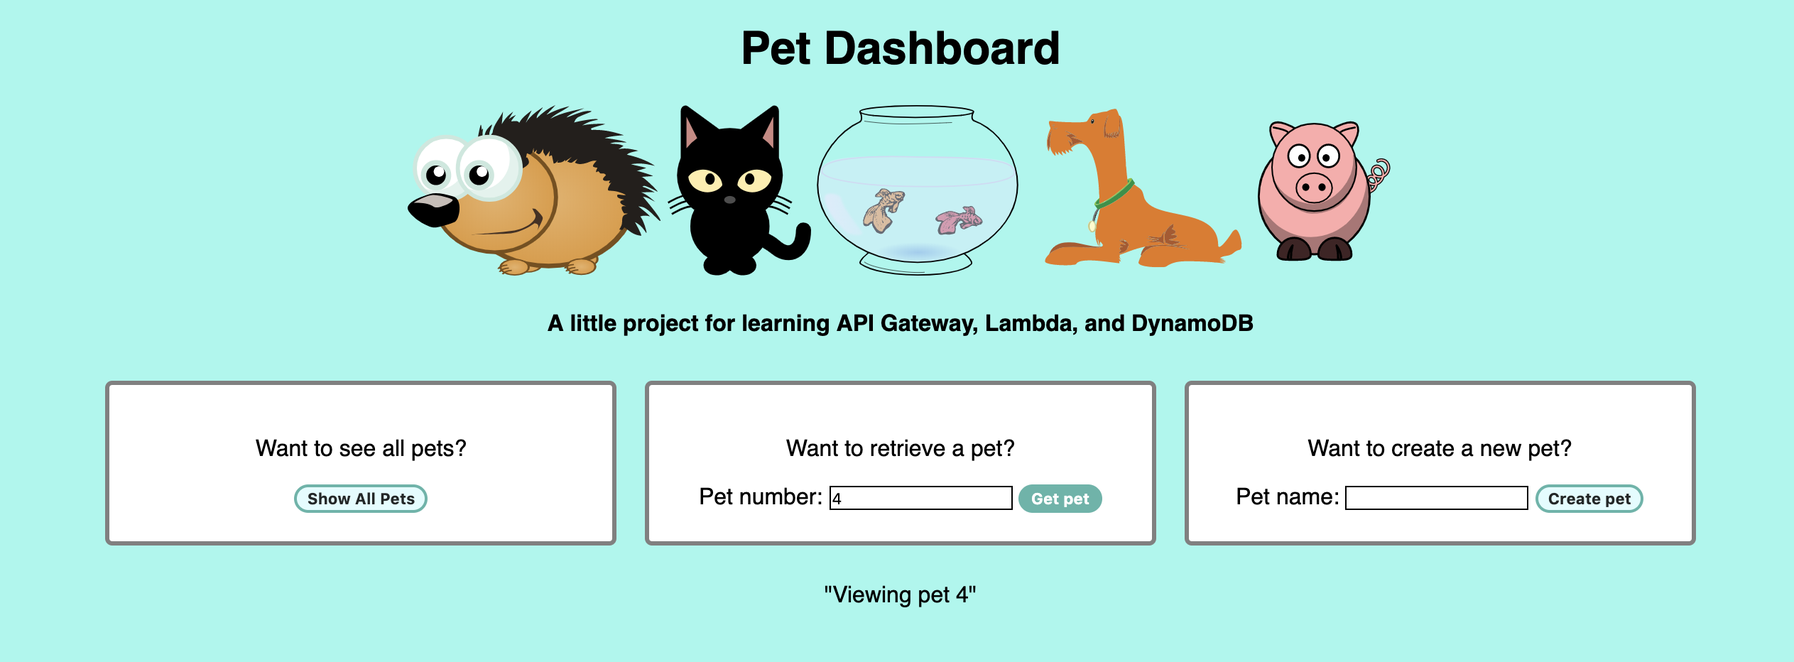
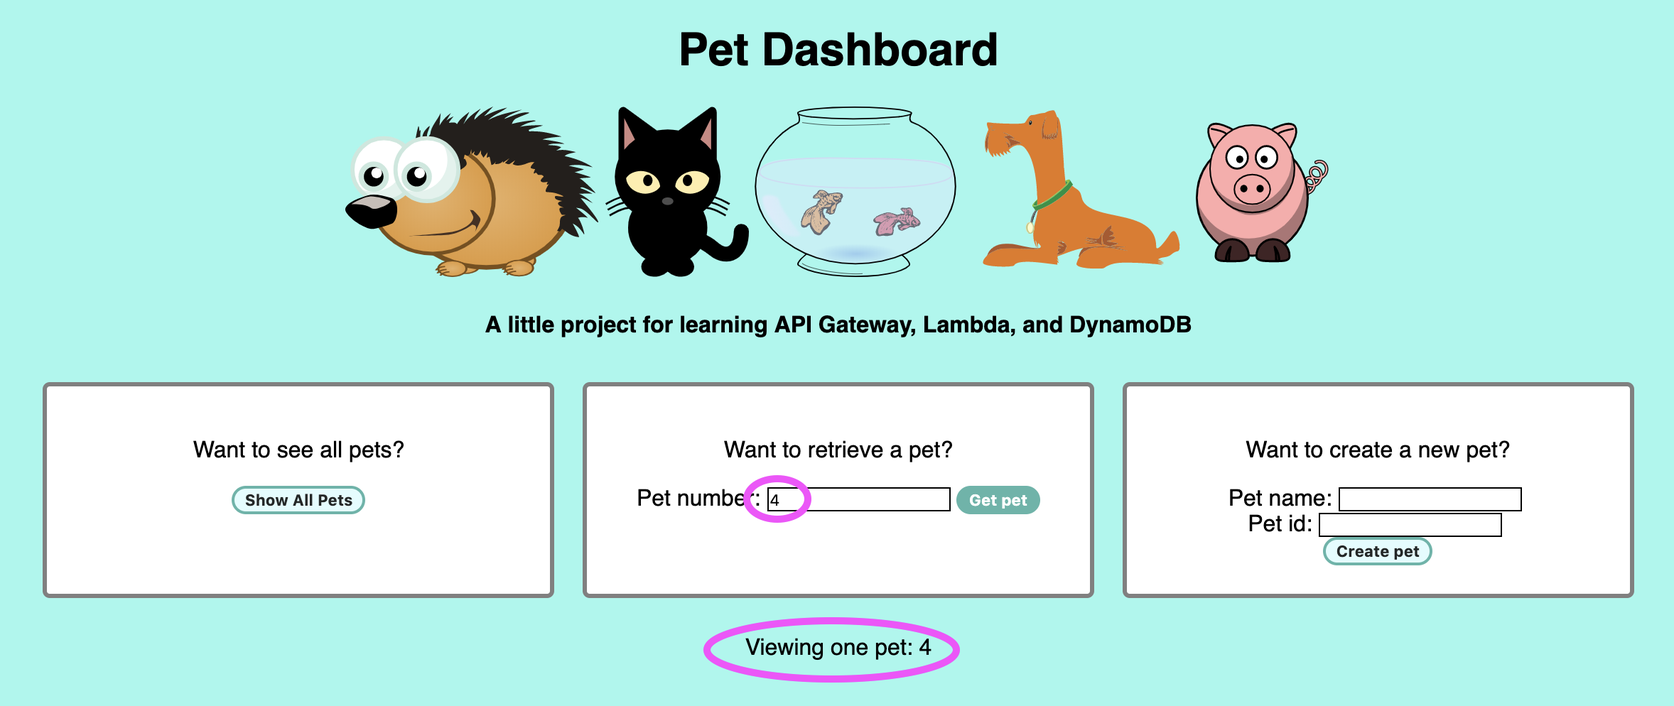
Updates to lesson 5 (api gateway

diff --git a/aws1/lessons/5.md b/aws1/lessons/5.md
@@ -6,4 +6,146 @@ courselanding: /aws1/lessons/
 session: 5
 ---
 
-<h2>Revisions being made to content. Check back soon.</h2>
+<div id="wrapper">
+  <nav id="toc">
+    <small><a style="font-style: italic" href="javascript:history.back()" title="">< back</a></small>
+    <ol>
+      <li><a href="#logistics">Logistics</a></li>
+      <li><a href="#agenda">Agenda & Goals</a></li>
+      <li><a href="#cleanup">Cleanup</a></li>
+      <li><a href="#selfstudy">Self-Study Exercises</a></li>
+    </ol>
+  </nav>
+  <div id="content-container">
+    <section>
+      <img class="section-image" src="{{ site.url }}/assets/images/turing-logo-white.png" alt="Turing logo">
+      <h2 class="section-header">This Session's Setup</h2>
+      <p>Open up the <a href="http://console.aws.amazon.com">AWS Mangement Console</a> and login to your AWS account using the admin user you created in the setup. <b>Do not log into your root account.</b></p>
+      <p>At the top of your Management Console next to your username, you'll see "Ohio" listed as your region. Go ahead and change that to US East (N. Virginia).</p>
+    </section>
+    <hr>
+    <section>
+      <a name="logistics"></a>
+      <img class="section-image" src="{{ site.url }}/assets/images/logistics.svg" alt="Checklist">
+      <h2 class="section-header">Logistics and Expectations</h2>
+      <ol>
+        <li>This session will touch on the basics of getting up and running with API Gateway. There are so many features of API Gateway, and two hours is only enough time to build out a very basic flow. However, as always, we've included links to additional resources you can use to further your learning once you understand the fundamentals.</li>
+        <li>We will not be working with authentication or authorization, API keys, usage plans, HTTPS, or data models, although API Gateway can in fact do all of these things.</li>
+        <li>Use the <a target="blank" href="https://docs.google.com/document/d/1dyEaYh-OAaUiqfq7V1cxeeceQzGWbRIx_nHclqTISco/edit?usp=sharing">Parking Lot</a> to jot down questions you have that are not part of the course.</li>
+      </ol>
+    </section>
+    <hr>
+    <section>
+      <a name="agenda"></a>
+      <img class="section-image" src="{{ site.url }}/assets/images/goals.svg" alt="Target">
+      <h2 class="section-header">Agenda and Goals</h2>
+      <ul>
+        <li>Understand the purpose of API Gateway</li>
+        <li>Create GET and POST endpoints and connect them to Lambda functions</li>
+        <li>Host a <a target="blank" href="http://petrescue.s3-website-us-east-1.amazonaws.com/">front end static site on S3</a> and dynamically generate data for it using API Gateway and Lambda</li>
+      </ul>
+    </section>
+    <hr />
+    <section>
+      <a name="apigateway"></a>
+      <img class="section-image" src="{{ site.url }}/assets/images/apigateway.svg" alt="AWS API Gateway icon">
+      <h2 class="section-header">API Gateway Overview</h2>
+      <h4>From <a target="blank" href="https://docs.aws.amazon.com/apigateway/latest/developerguide/welcome.html">AWS:</a></h4>
+      <blockquote><small>Amazon API Gateway is an AWS service for creating, publishing, maintaining, monitoring, and securing REST and WebSocket APIs at any scale. API developers can create APIs that access AWS or other web services as well as data stored in the AWS Cloud.</small></blockquote>
+      <p><span class="vocab">API Gateway</span> is one of AWS's "serverless" offerings. API Gateway serves as the entry point for a client to connect with, and the backend can be any number of things as shown in <a target="blank" href="https://docs.aws.amazon.com/apigateway/latest/developerguide/welcome.html">AWS's</a> diagram below:</p>
+      <img class="screenshot" src="{{site.url}}/assets/images/apigatewaydiagram.png" alt="Diagram of API gateway integration with other services">
+      <p>For this session, we'll expose a few endpoints that will send back JSON data to the client. It might look something like this:</p>
+      <ul>
+        <li><b>GET /users</b>: triggers Lambda function allUsers</li>
+        <li><b>GET /users/1</b>: triggers Lambda function oneUser</li>
+        <li><b>POST /users</b>: triggers Lambda function createUser</li>
+      </ul>
+      <h4>Pricing</h4>
+      <p>Under free tier, you're eligible for one million API calls per month. Even after your free tier eligibility expires, API Gateway is very affordable: the first 333,000,000 requests to hit your API will cost you a total of $3.50. The next 667,000,000 will cost a total of $2.80, and the pricing decreases in bulk after that.</p>
+      <h4>Serverless Benefits</h4>
+      <p>Like Lambda, API Gateway scales without you having to provision resources. By default, REST APIs can handle up to 10,000 simultaneous requests per second, but that limit can be increased with a service ticket.</p>
+      <h4>Deployment Stages</h4>
+      <p>API Gateway supports the use of "Stages" which can be used for a variety of things:</p>
+      <ul>
+        <li>Separating dev/prod endpoints</li>
+        <li>Separating v1, v2, v3... etc. of your API</li>
+      </ul>
+      <h4>Data Transformation</h4>
+      <p>API Gateway is able to transform data both from the request to the service (like Lambda), or from the service to back out through the Gateway to the client. This is done through Mapping Templates and the use of the Velocity Template Language. There are many uses cases for mapping templates that you can read about <a target="blank" href="https://docs.amazonaws.cn/en_us/apigateway/latest/developerguide/apigateway-override-request-response-parameters.html">here</a>.</p>
+      <p>API Gateway can also be used to add or change the headers on HTTP responses.</p>
+      <h4>Security</h4>
+      <p>Within API Gateway, you can create API keys and use those keys for usage plans. You can also use AWS Cognito for authorization, or you can create your own custom Lambda function for authorizing users.</p>
+      <p>API Gateway supports Cross Origin Resource Sharing (CORS), which you can enable by configuring an <code>options</code> method that responds to browser preflight requests. This will allow JavaScript running on other domains to make requests to your API endpoint. In addition, once the actual request is made, you can configure your <code>GET</code>, <code>POST</code>, and <code>DELETE</code> methods to respond with the correct CORS headers.</p>
+      <h4>Structuring API Gateway + Lambda</h4>
+      <p>There are multiple ways to connect API Gateway and Lambda:</p>
+      <ul>
+        <li>Creating one "greedy" endpoint that catches all paths and all methods. This exposes one resource that handles every request, and it's up to the backend code (Lambda, for example), to make decisions about what to do in the cases of path/method combinations.</li>
+        <li>Creating separate endpoints that all invoke the same Lambda function. The request would be rejected at the API Gateway level if it doesn't match a specific resource and method combination.</li>
+        <li>Creating separate endpoints that each invoke a separate Lambda function. The Lambda function therefore can worry just about code execution and does not have to handle HTTP request parsing.</li>
+      </ul>
+      <p>There are pros and cons for each approach, and you can read more about different serverless architecture patterns in the additional resources section below. For today, we're going to go with the third option: one Lambda function per resource+method combination.</p>
+      <h4>Lambda Proxy Integration</h4>
+      <p>We will not use Lambda Proxy Integration today; however, it's a concept worth discussing. Lambda proxy integration happens when the API Gateway passes on the entire request to the Lambda function, and the Lambda function returns a fully-formed HTTP response. In this case, your Lambda function needs to know to expect HTTP data and return HTTP responses. An example of this would be hosting an Express app in a Lambda function. Express is setup to expect HTTP data and return HTTP responses.</p>
+      <p>The opposite of this is where the API Gateway handles all of the HTTP -related things, and your Lambda function just accepts data (unrelated to HTTP) and returns data (unrelated to HTTP). An example of this would be a stand-alone function that is unrelated to HTTP (like adding two numbers). The Lambda function doesn't need to worry about setting headers, status code, etc. API Gateway will take care of that.</p>
+      <h4>Additional Resources</h4>
+      <ul>
+        <li><a target="blank" href="https://docs.aws.amazon.com/apigateway/latest/developerguide/welcome.html">AWS API Gateway Documentation</a></li>
+        <li><a target="blank" href="https://docs.aws.amazon.com/apigateway/latest/developerguide/canary-release.html">API Gateway Canary Release</a></li>
+        <li><a target="blank" href="https://docs.aws.amazon.com/apigateway/latest/developerguide/api-gateway-mapping-template-reference.html">API Gateway Mapping Template Documentation</a></li>
+        <li><a target="blank" href="https://stackoverflow.com/questions/51642913/is-it-better-to-have-1-lambda-function-per-route-or-1-lambda-that-handles-child">StackOverflow: Multiple endpoints/functions vs. single endpoint</a></li>
+        <li><a target="blank" href="https://serverless.com/blog/serverless-architecture-code-patterns/">Serverless Architecture Comparisons</a></li>
+        <li><a href="https://serverless-stack.com/chapters/organizing-serverless-projects.html">Organizing Serverless Projects</a></li>
+        <li><a target="blank" href="https://docs.aws.amazon.com/apigateway/latest/developerguide/api-gateway-set-up-simple-proxy.html#api-gateway-proxy-resource?icmpid=docs_apigateway_console">API Gateway Proxy Resource</a></li>
+        <li><a target="blank" href="https://medium.com/@lakshmanLD/lambda-proxy-vs-lambda-integration-in-aws-api-gateway-3a9397af0e6d">Lambda-Proxy vs Lambda Integration in AWS API Gateway</a></li>
+        <li><a target="blank" href="https://docs.aws.amazon.com/apigateway/latest/developerguide/apigateway-control-access-to-api.html">Controlling Access to API Gateway</a></li>
+      </ul>
+    </section>
+    <hr>
+    <section>
+      <a name="handson"></a>
+      <img class="section-image" src="{{ site.url }}/assets/images/functions.svg" alt="Lady programming">
+      <h2 class="section-header">API Gateway Hands-On</h2>
+      <p>In this section, we'll create an API with a GET and POST endpoint, enable those endpoints support CORS, and deploy our API. <b>Make sure that you are in the N. Virginia region</b> and that you're on the API Gateway dashboard.</p>
+      <div class="together">
+        <h4>Together: Lambda Function Setup</h4>
+        <p>Before we set up an API, let's create three Lambda functions that we can use as our backend: <b>allUsers</b>, <b>oneUser</b>, and <b>createUser</b>.</p>
+        <p>These functions doesn't need to do anything right now except for return a message saying that we successfully invoked the function.</p>
+      </div>
+      <div class="together">
+        <h4>Together: Our First AWS API</h4>
+        <p>This section will fully take place in the AWS Management Console. Here's an overview of what we will cover:</p>
+        <ul>
+          <li>Creating an API</li>
+          <li>Creating resources</li>
+          <li>Proxy resource</li>
+          <li>Enabling CORS preflight</li>
+          <li>Creating methods for resources</li>
+          <li>Integrating Lambda functions</li>
+          <li>Lambda proxy integration</li>
+          <li>Testing endpoints</li>
+          <li>Enabling CORS for additional resources</li>
+          <li>Response headers for CORS</li>
+          <li>Deploying the API to a stage (this is an easy step to forget!)</li>
+          <li><a target="blank" href="https://www.test-cors.org">test-cors.org</a></li>
+          <li>Dynamic path parameters and sending them to Lambda with integration requests: { "id": "$input.params('id')" }</li>
+        </ul>
+      </div>
+    </section>
+    <section>
+      <h2 class="section-header">Workshop: Connecting a Front End to API Gateway and Lambda</h2>
+      <p>In this section, build an API Gateway that triggers Lambda functions. You'll then deploy a pre-built front-end on S3 and use it to request data from your API Gateway. Find the workshop instructions <a href="{{site.url}}/aws1/lessons/5_workshop.html">here</a>.</p>
+    </section>
+    <hr>
+    <section>
+      <a name="cleanup"></a>
+      <img class="section-image" src="{{ site.url }}/assets/images/cleaning.svg" alt="Mop and bucket">
+      <h2 class="section-header">Cleanup</h2>
+      <p>Because of the generous free tier limits for API Gateway, S3, and Lambda, you won't be charged for your resources (unless your pet rescue site goes viral). We will be using the petRescue resources in Session 6 when we add our DynamoDB functionality, so <b>don't delete things yet!</b> If you'd like to delete your <b>user</b> resources (allUsers, createUser, oneUser), feel free.</p>
+    </section>
+    <hr />
+  </div>
+</div>
+<script
+src="https://code.jquery.com/jquery-3.2.1.min.js"
+integrity="sha256-hwg4gsxgFZhOsEEamdOYGBf13FyQuiTwlAQgxVSNgt4="
+crossorigin="anonymous"></script>

diff --git a/aws1/lessons/5_workshop.md b/aws1/lessons/5_workshop.md
@@ -29,11 +29,11 @@ session: 5
       <h2 class="section-header">Setting Up Lambda Functions</h2>
       <p>Open the Lambda console and create three functions. We will use these functions for the backend integration of our API Gateway endpoints. We will be working entirely in the dashboard instead of pushing code up from the command line.</p>
       <ul>
-        <li><b>allPets</b>: should return the body "viewing all pets"</li>
-        <li><b>onePet</b>: should return the body "viewing one pet"</li>
-        <li><b>createPet</b>: should return the body "created a pet"</li>
+        <li><b>allPets</b>: should return the body "viewing all pets" like <code>{ body: "Viewing all pets" }</code> -- no need for a status code since API Gateway will handle that for us</li>
+        <li><b>onePet</b>: should return the body "viewing one pet", similar to above</li>
+        <li><b>createPet</b>: should return the body "created a pet", similar to above</li>
       </ul>
-      <p>Your function dashboard should show the three functions:</p>
+      <p>Your function dashboard should show the three functions (disregard the runtime since it might be different for you):</p>
         <img class="screenshot" src="{{site.url}}/assets/images/petfunctions.png" alt="Screenshot for pet functions">
     </section>
     <hr>
@@ -61,7 +61,7 @@ session: 5
         <img class="screenshot" src="{{site.url}}/assets/images/allpetssetup.png" alt="Screenshot for API resource creation">
         <li>Click <b>Test</b> on the left-hand side which will bring you to the test screen. Scroll down to the blue <b>Test</b> button and click it. You should see the output below:</li>
         <img class="screenshot" src="{{site.url}}/assets/images/petstestresults.png" alt="Screenshot for test result">
-        <li>Click on the <b>GET</b> method and from the <b>Actions</b> menu, select <b>Enable CORS</b>.</li>
+        <li>Even though this works in testing, the HTTP response for this GET request is mising the <code>Access-Control-Allow-Origin</code> header, so our outside site will not be able to get data from our API as of right now. Let's fix this by clicking on the <b>GET</b> method, then selecting <b>Enable CORS</b> from the <b>Actions</b> menu.</li>
         <img class="screenshot" src="{{site.url}}/assets/images/enablecors.png" alt="Screenshot for test result">
         <li>Check off <b>DEFAULT 4xx</b> and <b>DEFAULT 5xx</b> and leave all other settings the same. Click the blue <b>Enable CORS and replace existing CORS headers</b> button. Confirm the popup.</li>
         <a name="cors"></a>
@@ -71,7 +71,7 @@ session: 5
         <li>Copy your endpoint and paste it into the <code>app.js</code> file on line 6. <b>Don't forget to add the /pets path on the end!</b></li>
         <img class="screenshot" src="{{site.url}}/assets/images/apiurl.png" alt="Screenshot for API URL">
         <img class="screenshot" src="{{site.url}}/assets/images/apijavascript.png" alt="Screenshot for JS code">
-        <li>Wait a minute or two, then refresh your <code>index.html</code> file in your browser and click on the <b>Show All Pets</b> button. It should say "Viewing all pets"</li>
+        <li>Wait a minute or two, then refresh your <code>index.html</code> file in your browser and click on the <b>Show All Pets</b> button. It should say "Viewing all pets". Depending on how you set up your code, you may or may not see quote marks around the return value.</li>
         <img class="screenshot" src="{{site.url}}/assets/images/viewallpets.png" alt="Screenshot of website loading data">
       </ol>
     </section>
@@ -85,7 +85,7 @@ session: 5
         <li>Enter <code>{id}</code> for both the <b>Resource Name</b> and <b>Resource Path</b>. Check <b>Enable CORS Gateway</b>.</li>
         <img class="screenshot" src="{{site.url}}/assets/images/dynamicpath.png" alt="Screenshot showing dynamic path">
         <li>From the <b>Actions</b> menu, select <b>Create Method</b>. In the dropdown that appears, choose <b>GET</b>. Click the checkbox to save it. (This is identical to <b>Step 3</b> from above, just with a different path.)</li>
-        <p>*_*_*_*_*_*_ If you're confused about how to do this step, go look at <a href="#repeat">the screenshots</a> from the first time you did this. _*_*_*_*_*_*</p>
+        <p>If you're confused about how to do this step, go look at <a href="#repeat">the screenshots</a> from the first time you did this.</p>
         <li>Select <b>Lambda Function</b> as the integration type, and start typing the name of your <b>onePet</b> function, which should populate in the list. Click save and confirm the popup.</li>
         <img class="screenshot" src="{{site.url}}/assets/images/onepet.png" alt="Screenshot showing dynamic path">
         <li>We'll need to send the dynamic portion of the path to our Lambda function, so we're going to use a Mapping Template in the Integration Request. Click on <b>Integration Request</b>.</li>
@@ -98,19 +98,19 @@ session: 5
         <img class="screenshot" src="{{site.url}}/assets/images/gotome.png" alt="Screenshot getting back to method execution">
         <li>Click on test. This time, enter a number in the {id} path param for the test.</li>
         <img class="screenshot" src="{{site.url}}/assets/images/pathparam.png" alt="Screenshot entering number for path param">
-        <li>Run the test. You should see <code>"body": "\"Viewing one pet\""</code> come back, but our Lambda function isn't doing anything with the data we're passing in.</li>
-        <li>Open up the Lambda dashboard in a new tab and go to your <code>onePet</code> function. <b>Can you modify it so that you're using the <code>id</code> key of the event to print out a message that says "Viewing pet 7" (or whatever number gets passed in)?</b></li>
+        <li>Run the test. You should see <code>Viewing one pet</code> come back, but our Lambda function isn't doing anything with the data we're passing in.</li>
+        <li>Open up the Lambda dashboard in a new tab and go to your <code>onePet</code> function. <b>Can you modify it so that you're using the <code>id</code> key of the event to print out a message that says "Viewing one pet: 7" (or whatever number gets passed in)?</b> Hint: the id is coming from the <code>event</code> parameter...</li>
         <li>Once you've fixed and saved your Lambda function code, go back to API Gateway and run your test again. This is the output you should get.</li>
         <img class="screenshot" src="{{site.url}}/assets/images/pet7.png" alt="Screenshot testing API gateway">
         <li>Enable CORS for this path by selecting <b>Enable CORS</b> from the <b>Actions</b> dropdown.</li>
         <img class="screenshot" src="{{site.url}}/assets/images/corsdynamic.png" alt="Screenshot enabling cors">
         <li>Check off <b>DEFAULT 4xx</b> and <b>DEFAULT 5xx</b> and leave all other settings the same. Click the blue <b>Enable CORS and replace existing CORS headers</b> button. Confirm the popup.</li>
-        <p>*_*_*_*_*_*_ If you're confused about how to do this step, go look at <a href="#cors">the screenshots</a> from the first time you did this. _*_*_*_*_*_*</p>
+        <p>If you're confused about how to do this step, go look at <a href="#cors">the screenshots</a> from the first time you did this.</p>
         <li>From the <b>Actions</b> menu, select <b>Deploy API</b>. Select your <b>v1</b> deployment stage and click <b>Deploy.</b></li>
         <li>Copy your endpoint and paste it into the <code>app.js</code> file on line 16. <b>Don't forget to keep the <code>/pets/${id}</code> path on the end!</b></li>
         <img class="screenshot" src="{{site.url}}/assets/images/apiurl.png" alt="Screenshot for API URL">
         <img class="screenshot" src="{{site.url}}/assets/images/jsshowpet.png" alt="Screenshot for inserting URL in JS code">
-        <li>Wait a minute or two, then refresh your <code>index.html</code> file in your browser. Enter a number in the <b>Pet number</b> box and click on the <b>Get pet</b> button. It should say "Viewing pet 4" (or whatever number you entered).</li>
+        <li>Wait a minute or two, then refresh your <code>index.html</code> file in your browser. Enter a number in the <b>Pet number</b> box and click on the <b>Get pet</b> button. It should say "Viewing one pet: 4" (or whatever number you entered).</li>
         <img class="screenshot" src="{{site.url}}/assets/images/dashboardonepet.png" alt="Screenshot of succesful one pet request">
       </ol>
     </section>
@@ -138,7 +138,7 @@ session: 5
         <li>Copy your endpoint and paste it into the <code>app.js</code> file on line 27. <b>Don't forget to keep the <code>/pets</code> path on the end!</b></li>
         <img class="screenshot" src="{{site.url}}/assets/images/apiurl.png" alt="Screenshot for API URL">
         <img class="screenshot" src="{{site.url}}/assets/images/createjs.png" alt="Screenshot for inserting URL in JS code">
-        <li>Wait two minutes, then refresh your <code>index.html</code> file in your browser. Enter a name in the <b>Pet name</b> and number in the <b>Pet id</b> box, then click on the <b>Create pet</b> button. It should say "Created Joey with ID 7" (or whatever number you entered). If this does <b>NOT</b> work, try re-enabling CORS and re-deploying.</li>
+        <li>Wait a minute or so, then refresh your <code>index.html</code> file in your browser. Enter a name in the <b>Pet name</b> and number in the <b>Pet id</b> box, then click on the <b>Create pet</b> button. It should say "Created Joey with ID 7" (or whatever number you entered). If this does <b>NOT</b> work, try re-enabling CORS and re-deploying.</li>
       </ol>
     </section>
     <hr>
@@ -149,19 +149,18 @@ session: 5
         <li>Upload all of your frontend files into the bucket.</li>
         <li>In the <b>Permissions</b> tab, paste in this bucket policy that allows public access of your objects. Make sure to insert the ARN for your own bucket where indicated <b>and don't forget to add the <code>/*</code> at the end of your bucket ARN</b> so that the bucket policy refers to objects, not the bucket.</li>
         <pre>{
-  "Id": "Policy1565499669881",
-  "Version": "2012-10-17",
-  "Statement": [
-    {
-      "Sid": "Stmt1565499668813",
-      "Action": [
-        "s3:GetObject"
-      ],
-      "Effect": "Allow",
-      "Resource": "INSERT YOUR BUCKET ARN HERE and don't forget to add /* to the end",
-      "Principal": "*"
-    }
-  ]
+    "Version": "2012-10-17",
+    "Statement": [
+        {
+            "Sid": "Allow public access for static website files",
+            "Action": [
+                "s3:GetObject"
+            ],
+            "Effect": "Allow",
+            "Resource": "arn:aws:s3:::testpetrescue/*",
+            "Principal": "*"
+        }
+    ]
 }</pre>
         <li>Click on the <b>Properties</b> tab and enable <b>Static website hosting</b>. Type <code>index.html</code> for the index document. We do not have an error document, so leave that field blank. Click save.</li>
         <li>Click <b>Static website hosting</b> again so that you can get the URL of your website. Try it out!</li>

diff --git a/aws1/lessons/1.md b/aws1/lessons/1.md
@@ -49,7 +49,7 @@ session: 1
       <h2 class="section-header">Logistics and Expectations</h2>
       <ol>
         <li>This course will explore foundational concepts for a variety of AWS services. Because we are cramming a lot of information into a small amount of time, we will not always have time to deeply explore all questions. Links to related concepts are embedded within the curriculum. <b>We strongly recommend being present during the instruction and postponing your link-exploration until after class.</b></li>
-        <li>There are many things we <i>won't</i> cover in this course. For example: IPv6 (mainly for IoT devices), HTTPS and DNS (because both involve extra costs), intricacies of SSH, etc. are topics that are beyond the scope of the exercises in this course. If you'd like more information when those terms arise in the context of the AWS services we cover, just ask and we'll be happy to pass along resources and/or documentation that you can use in your self-study. Use the <a target="blank" href="https://docs.google.com/document/d/17HkfWkWuw0VB9zJ_7XHHbk64I19cxo_gOHKEUS5e6mg/edit?usp=sharing">Parking Lot</a> to jot down questions you have that are not part of the course.</li>
+        <li>There are many things we <i>won't</i> cover in this course. For example: IPv6 (mainly for IoT devices), HTTPS and DNS (because both involve extra costs), intricacies of SSH, etc. are topics that are beyond the scope of the exercises in this course. If you'd like more information when those terms arise in the context of the AWS services we cover, just ask and we'll be happy to pass along resources and/or documentation that you can use in your self-study. Use the <a target="blank" href="https://docs.google.com/document/d/1dyEaYh-OAaUiqfq7V1cxeeceQzGWbRIx_nHclqTISco/edit?usp=sharing">Parking Lot</a> to jot down questions you have that are not part of the course.</li>
         <li>It's ok to be overwhelmed by the vastness of the AWS ecosystem and the fine-grain control that AWS gives you. When first starting out, stick with the defaults that AWS provides.</li>
         <li>Play your part in creating a safe and welcoming learning environment for your classmates. A fundamentals class is not the right setting to tell everyone how smart you are. It makes others uncomfortable.</li>
         <li>We will use code in this course, but coding is not the focus of the course. For the code samples we use, we'll do a high-level walk through before integrating AWS services.</li>
